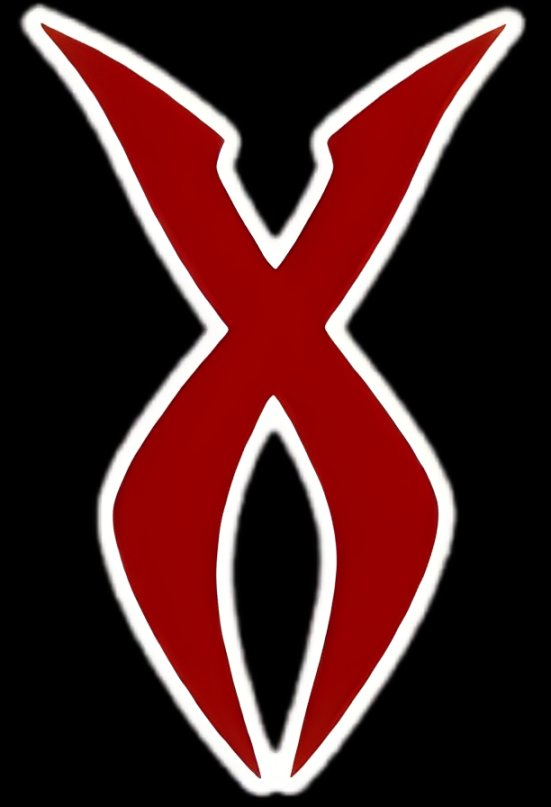
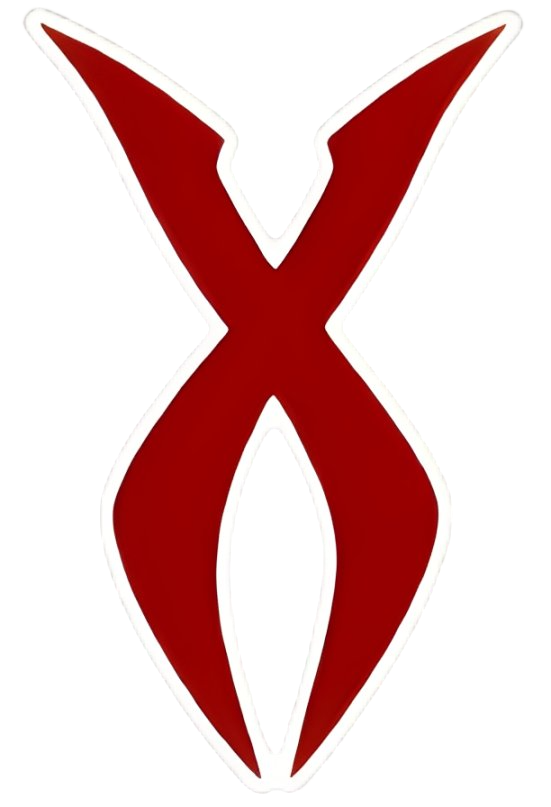
aa

diff --git a/public/index.html b/public/index.html
@@ -129,7 +129,7 @@
 <nav>
   <a href="/" class="nav-logo">
     <div class="nav-pulse"></div>
-    <img src="/imgs/nexustitle.png" alt="Nexus"/>
+    <img src="/imgs/nexusicon.png" alt="Nexus"/>
   </a>
   <div class="nav-links" id="navLinks">
     <a href="/sobre.html" class="nav-link">Sobre</a>
